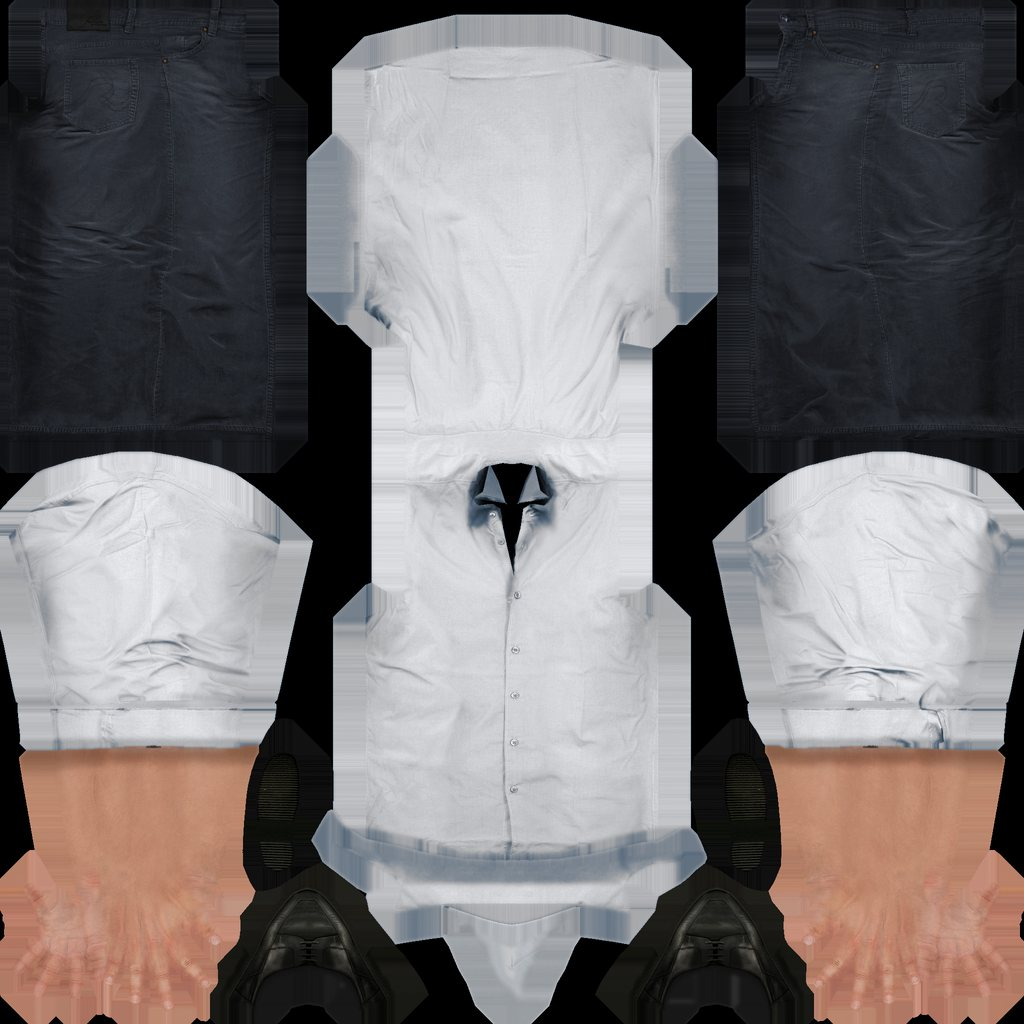
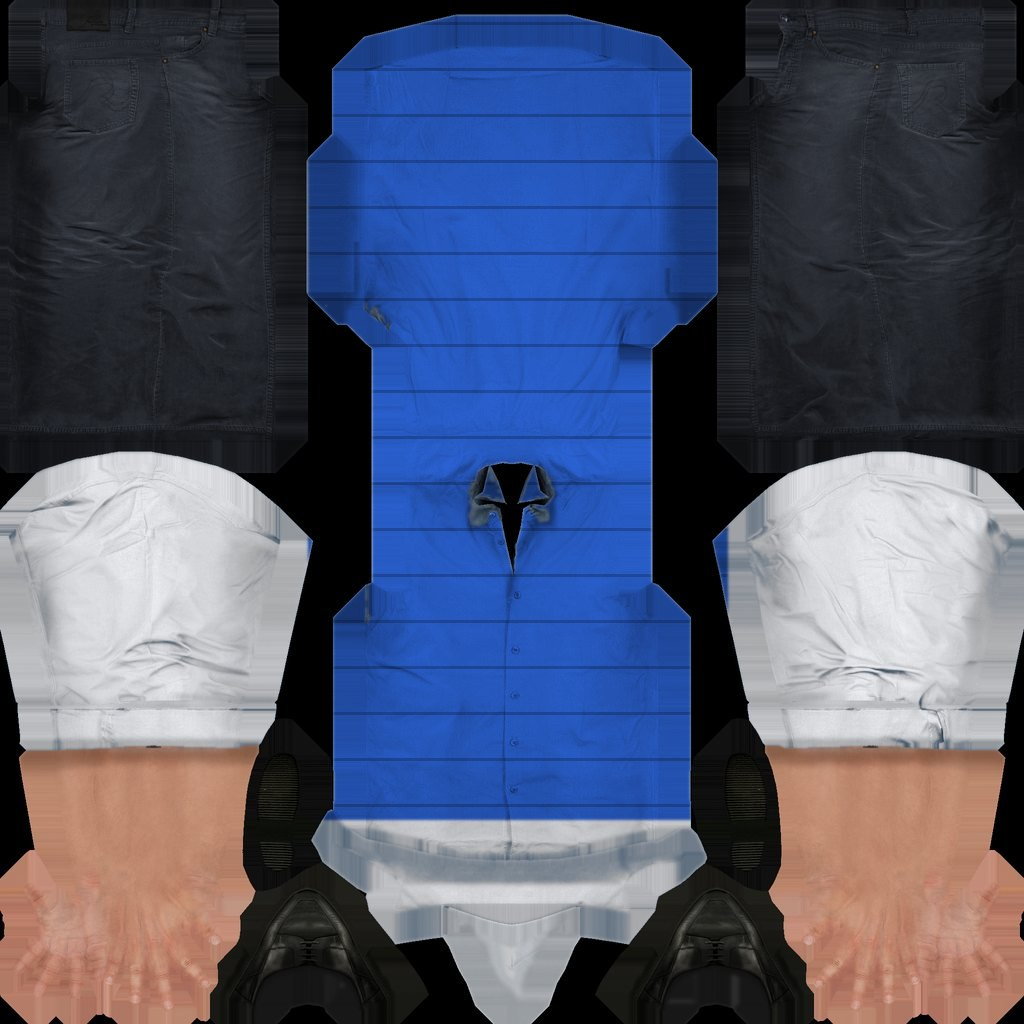
Thomas Has to Go 3D: Thomas wears a blue vest and carries a golf bag
Claude-Session: https://claude.ai/code/session_01EKAb17XhTNcKz2kyg2cs6Z

Changed region(s): [[0.2812, 0.0, 0.7188, 0.8125], [0.6875, 0.5, 0.7188, 0.5938]]

diff --git a/thomas3d/index.html b/thomas3d/index.html
@@ -579,6 +579,7 @@ function makePerson(name, fallback) {
   Object.assign(g.userData, { rig: { B, rest, rootY: B.Bip01.position.y }, stain, tray, ph: rand(0, 6) });
   return g;
 }
+const v3 = new THREE.Vector3();
 const AXV = { x: new THREE.Vector3(1, 0, 0), y: new THREE.Vector3(0, 1, 0), z: new THREE.Vector3(0, 0, 1) }, tq = new THREE.Quaternion();
 const lerp = (a, b, t) => a + (b - a) * t;
 // Biped joint conventions: z flexes (thigh +forward, knee -bend, arm -forward, elbow -bend, spine +lean), y lowers the arms (L +, R -).
@@ -603,7 +604,31 @@ function animHuman(h, dt, amt, rate, pose) {
     R(sd + '_UpperArm', 'z', tray ? -1.15 : mv * lerp(.4, .8, run) * s + run * .12 * mv - sq * .5);
     R(sd + '_Forearm', 'z', tray ? -.55 : -(.14 + mv * lerp(.25, 1.2, run) - mv * run * .3 * s) - sq * 1.3);
   }
+  if (u.bag) {
+    B.Spine2.getWorldPosition(v3); h.worldToLocal(v3);
+    u.bag.position.set(v3.x, v3.y - .12, v3.z); u.bag.rotation.x = lean * 1.1; u.bag.rotation.z = mv * lerp(.02, .06, run) * Math.sin(ph * 2);
+  }
   B.Bip01.position.y = rootY + mv * lerp(1.2, 6.5, run) * Math.abs(Math.cos(ph)) - mv * run * 1.5 - sq * 42 + (a < .05 ? Math.sin(ph * .25) * .3 : 0);
+}
+
+/* ---------- Thomas's golf bag ---------- */
+function makeGolfBag() {
+  const g = new THREE.Group(), bag = new THREE.Group(); g.add(bag);
+  const navy = mat('#1d2f55', .7), trim = mat('#f2f2ee', .6), blk = mat('#151515', .8), steel = mat('#c9ced4', .2, 1);
+  bag.add(mesh(G.cyl, navy, 0, 0, 0, .125, .86, .125));
+  bag.add(mesh(G.cyl, trim, 0, .43, 0, .135, .05, .135)); bag.add(mesh(G.cyl, blk, 0, -.44, 0, .13, .04, .13));
+  bag.add(mesh(G.box, trim, 0, .05, .12, .13, .3, .06)); bag.add(mesh(G.box, navy, 0, -.24, .125, .12, .16, .05));
+  // club heads poking out of the top: three woods with headcovers, a few irons and the putter
+  const clubs = [[-.05, .04, .3, 'wood', '#c0261b'], [.05, .05, .27, 'wood', '#f2f2ee'], [0, -.01, .24, 'wood', '#1f7a4c'], [-.06, -.05, .2, 'iron'], [.06, -.04, .22, 'iron'], [0, -.07, .18, 'iron'], [.02, .08, .16, 'iron']];
+  for (const [x, z, h, kind, col] of clubs) {
+    bag.add(mesh(G.cyl, steel, x, .43 + h / 2, z, .008, h, .008));
+    if (kind === 'wood') bag.add(mesh(G.sph, mat(col, .9), x, .46 + h, z + .015, .045, .05, .06));
+    else { const hd = mesh(G.box, steel, x + .02, .44 + h, z, .07, .035, .014); hd.rotation.z = .5; bag.add(hd); }
+  }
+  // shoulder strap over the right shoulder
+  const strap = mesh(G.box, blk, .06, .12, .2, .045, .62, .02); strap.rotation.z = .5; bag.add(strap);
+  bag.rotation.z = -.42; bag.position.set(.02, 0, -.17);
+  return g;
 }
 
 /* ---------- Wild turkeys ---------- */
@@ -874,6 +899,7 @@ function startLevel() {
   distLoo = bfs(looIdx);
   const sp = center(sIdx), lp = center(looIdx);
   const pm = makePerson(CAST.thomas, THOMAS); world.add(pm);
+  pm.userData.bag = makeGolfBag(); pm.add(pm.userData.bag);
   player = { x: sp.x, z: sp.z, rot: 0, m: pm, moving: false, boost: 0, stun: 0, kx: 0, kz: 0, hitCool: 0 };
   const lm = makeLoo(); lm.position.set(lp.x, 0, lp.z); world.add(lm);
   loo = { x: lp.x, z: lp.z, m: lm, name: placeName(lp.x, lp.z) };
@@ -1156,7 +1182,6 @@ function finish() {
 }
 
 /* ---------- Render ---------- */
-const v3 = new THREE.Vector3();
 function placeActors(dt) {
   const p = player, lost = (state === 'ending' || state === 'over') && endReason !== 'win';
   p.m.position.set(p.x, 0, p.z); p.m.rotation.y = p.rot;

diff --git a/thomas3d/CREDITS.md b/thomas3d/CREDITS.md
@@ -1,5 +1,5 @@
 # Credits
 
-- **People** (`people/`): [Microsoft Rocketbox Avatar Library](https://github.com/microsoft/Microsoft-Rocketbox), MIT License, Copyright (c) Microsoft Corporation. Textures were resized, and Thomas's hair and shirt were recoloured.
+- **People** (`people/`): [Microsoft Rocketbox Avatar Library](https://github.com/microsoft/Microsoft-Rocketbox), MIT License, Copyright (c) Microsoft Corporation. Textures were resized, and Thomas's hair and shirt were recoloured and a blue vest was painted on.
 - **Lighting** (`env.hdr`): "Pedestrian Overpass" HDRI from [Poly Haven](https://polyhaven.com/a/pedestrian_overpass), CC0.
 - **Engine** (`vendor3d.js`): [three.js](https://threejs.org) r160 with FBXLoader, RGBELoader and SkeletonUtils, MIT License.
